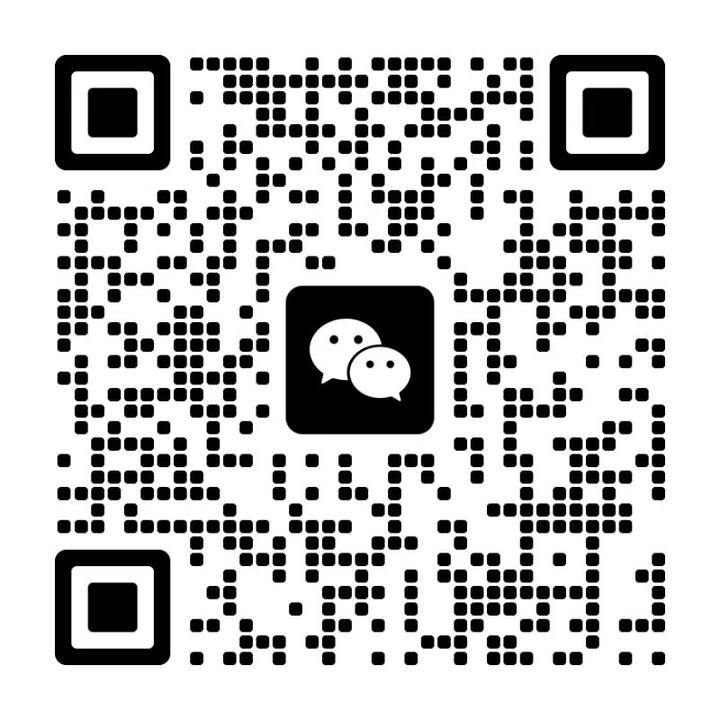
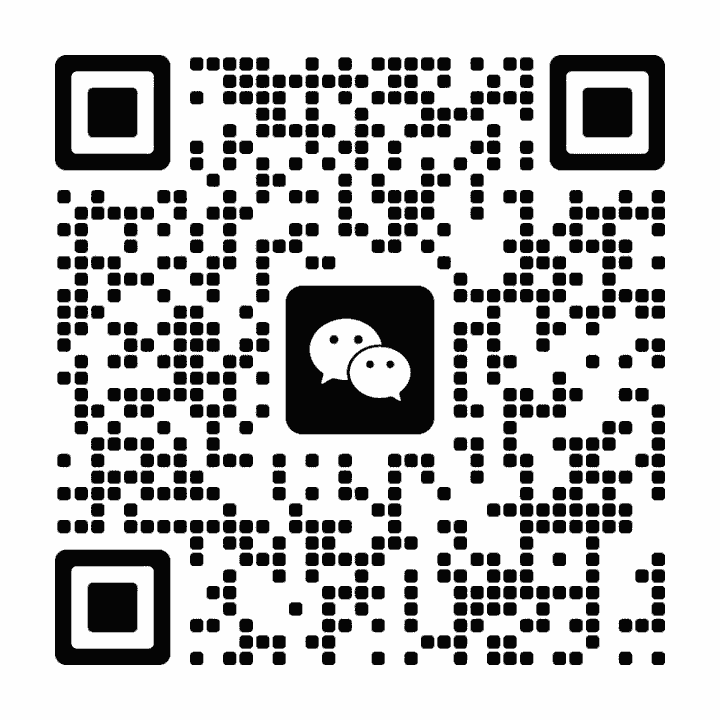
perf: 大幅削减页面体积（首页 1.46MB → 345KB）
线上实测发现首页 load 要 24.7s，根因是 GitHub Pages 从国内被限速到约
80KB/s（本机带宽实测 1.3MB/s），叠加大量该缩略图却传原图的资源：

- 首页图片条：224px 卡片塞 1600px 原图 -> 改用 480/960 两档 WebP 缩略图
  （6 张 954KB -> 95KB），新增 scripts/optimize-images.mjs 自动生成
- 新番封面：34x46px 的列表小图却下 5.3MB 原图（单张最大 3.5MB）
  -> 用 B 站图床 @120w_162h_1c.webp 后缀，降到 102KB（省 98%）
- 微信二维码：720 全彩 PNG 189KB -> 灰度 8 色调色板 10.2KB
  （用 zxing 交叉验证 8/8 栅格尺寸均可解码；jsQR 不可靠，只有 3/8）
- 壁纸：259KB JPEG -> 72KB WebP（全屏 10~20% 透明度的装饰图）
- basePathFixer 增加 srcset 改写，避免子路径部署时缩略图 404

diff --git a/src/utils/thumbs.ts b/src/utils/thumbs.ts
@@ -1,0 +1,46 @@
+// 缩略图路径映射
+//
+// 原图放在 public/<相册目录>/xxx.jpg（1600px、150~250KB），
+// 缩略图由 scripts/optimize-images.mjs 生成到：
+//   public/thumbs/480/<相册目录>/xxx.webp
+//   public/thumbs/960/<相册目录>/xxx.webp
+//
+// 页面里的 <img src> 指向缩略图，data-src（灯箱大图）仍指向原图。
+// 找不到缩略图时自动回退原图 —— 例如刚加进来还没跑优化脚本的图片，
+// 宁可慢一点也不要 404 出现破图。
+import fs from 'node:fs';
+import path from 'node:path';
+
+const PUBLIC_DIR = path.resolve(process.cwd(), 'public');
+
+/** 原图路径 → 对应档位的缩略图路径（不做存在性检查） */
+function toThumbPath(src: string, w: number): string {
+  const i = src.lastIndexOf('/');
+  if (i < 0) return src;
+  const dir = src.slice(0, i);
+  const file = src.slice(i + 1);
+  const base = file.replace(/\.[^./]+$/, '');
+  return `/thumbs/${w}${dir}/${base}.webp`;
+}
+
+/** 取某档位的缩略图；不存在则回退原图 */
+export function thumb(src: string, w = 480): string {
+  const t = toThumbPath(src, w);
+  if (t === src) return src;
+  const onDisk = path.join(PUBLIC_DIR, t.replace(/^\//, '').split('/').join(path.sep));
+  return fs.existsSync(onDisk) ? t : src;
+}
+
+/** 生成 srcset 字符串；缺失的档位会被略过 */
+export function thumbSet(src: string, widths: number[] = [480, 960]): string {
+  return widths
+    .map((w) => ({ w, url: thumb(src, w) }))
+    .filter(({ url }) => url !== src)
+    .map(({ w, url }) => `${url} ${w}w`)
+    .join(', ');
+}
+
+/** 该图是否有任何可用缩略图 */
+export function hasThumb(src: string): boolean {
+  return thumb(src, 480) !== src || thumb(src, 960) !== src;
+}

diff --git a/src/utils/anime.ts b/src/utils/anime.ts
@@ -28,17 +28,38 @@ export interface AnimeData {
 
 export const animeData = data as AnimeData;
 
+/**
+ * 把 B 站图床的原图 URL 换成立即缩略图。
+ *
+ * 为什么必须做：B 站时间线给的封面是原始大图，实测 18 张合计 5.3 MB，
+ * 其中最大一张 3.5 MB —— 而页面上这些封面只显示 34×46 px。
+ * 图床支持在 URL 后追加 `@宽w_高h_裁剪_格式` 直接出缩略图，
+ * 实测同样 18 张合计降到 102 KB（省 98%），且全部返回 WebP。
+ *
+ * 非 B 站图床（或已经带过后缀）的地址原样返回。
+ */
+export function animeCoverThumb(cover: string, width = 120, height = 162): string {
+  if (!cover) return cover;
+  if (!/^https?:\/\/[^/]*hdslb\.com\//i.test(cover)) return cover;
+  if (cover.includes('@')) return cover; // 已经有了，别叠加
+  return `${cover}@${width}w_${height}h_1c.webp`;
+}
+
 /** 取今天起的前 N 天（默认 3 天），每天最多 maxPerDay 部 */
 export function getAnimeSchedule(days = 3, maxPerDay = 5): AnimeDay[] {
-  return (animeData.days || [])
-    .slice(0, days)
-    .map((d) => ({ ...d, episodes: d.episodes.slice(0, maxPerDay) }));
+  return (animeData.days || []).slice(0, days).map((d) => ({
+    ...d,
+    episodes: d.episodes.slice(0, maxPerDay).map((ep) => ({
+      ...ep,
+      cover: animeCoverThumb(ep.cover),
+    })),
+  }));
 }
 
 /** 今天更新的番剧 */
 export function getTodayAnime(): AnimeEpisode[] {
   const today = (animeData.days || []).find((d) => d.isToday);
-  return today ? today.episodes : [];
+  return today ? today.episodes.map((ep) => ({ ...ep, cover: animeCoverThumb(ep.cover) })) : [];
 }
 
 /** 数据抓取时间的友好显示 */

diff --git a/src/styles/global.css b/src/styles/global.css
@@ -148,7 +148,7 @@ body::before {
   position: fixed;
   inset: 0;
   z-index: 0;
-  background: url('/wallpaper.jpg') center / cover no-repeat;
+  background: url('/wallpaper.webp') center / cover no-repeat;
   opacity: var(--wallpaper-opacity);
   pointer-events: none;
   transition: opacity 0.4s ease;
